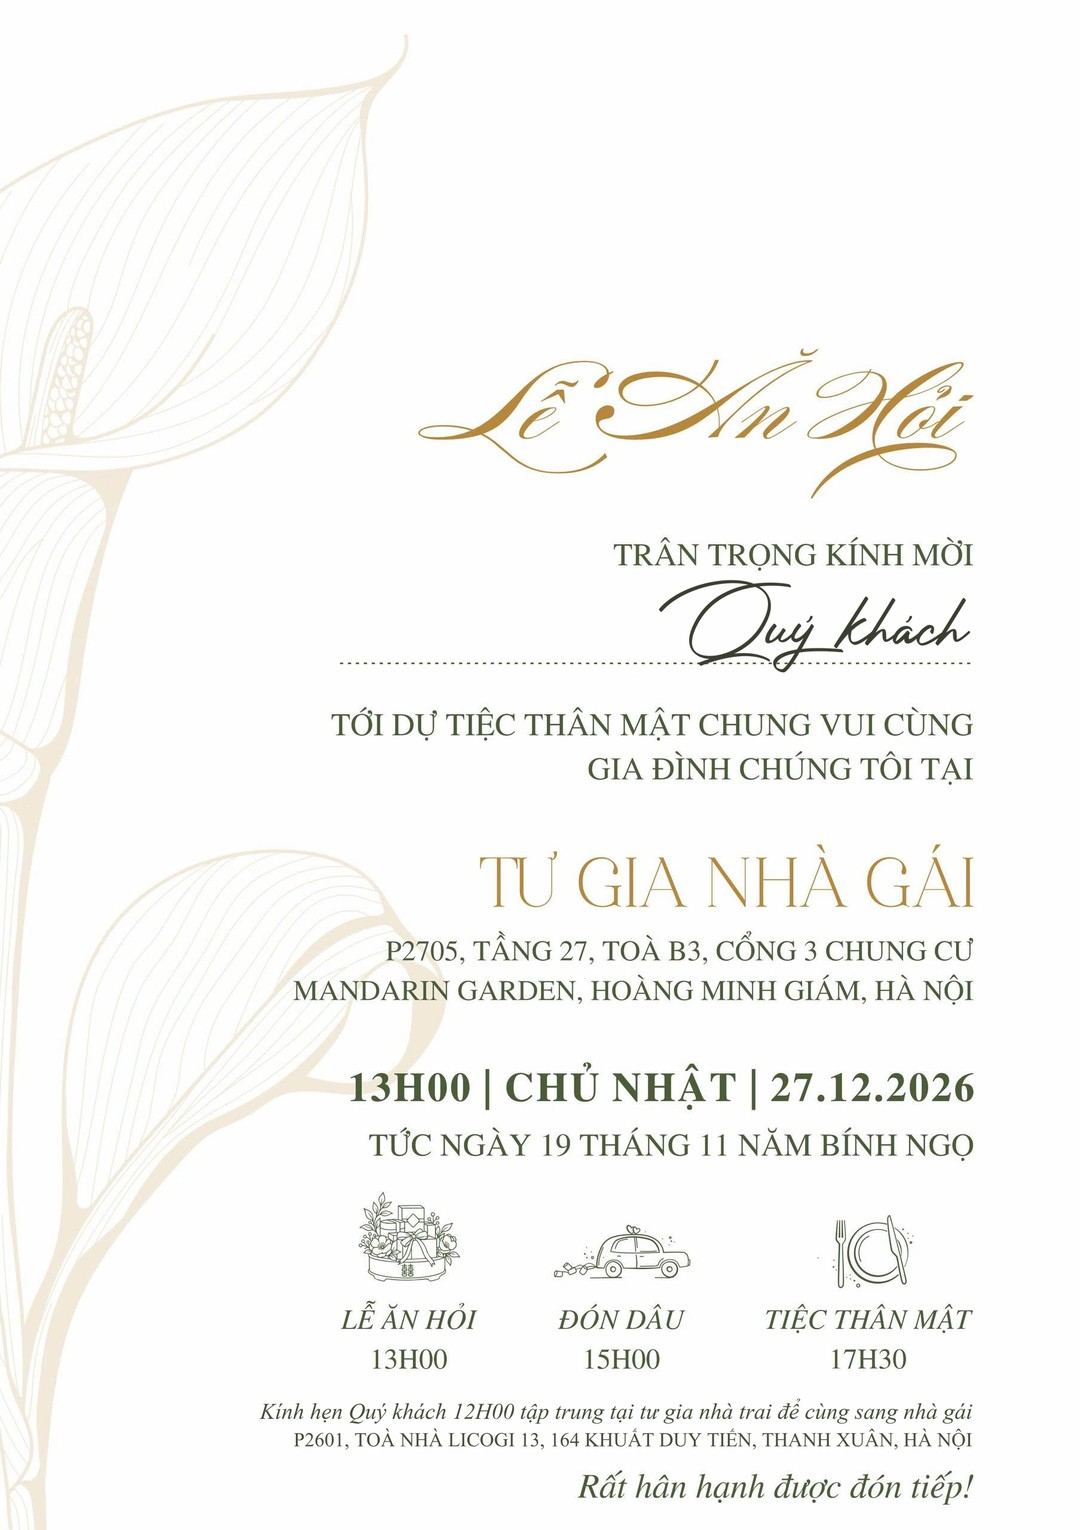
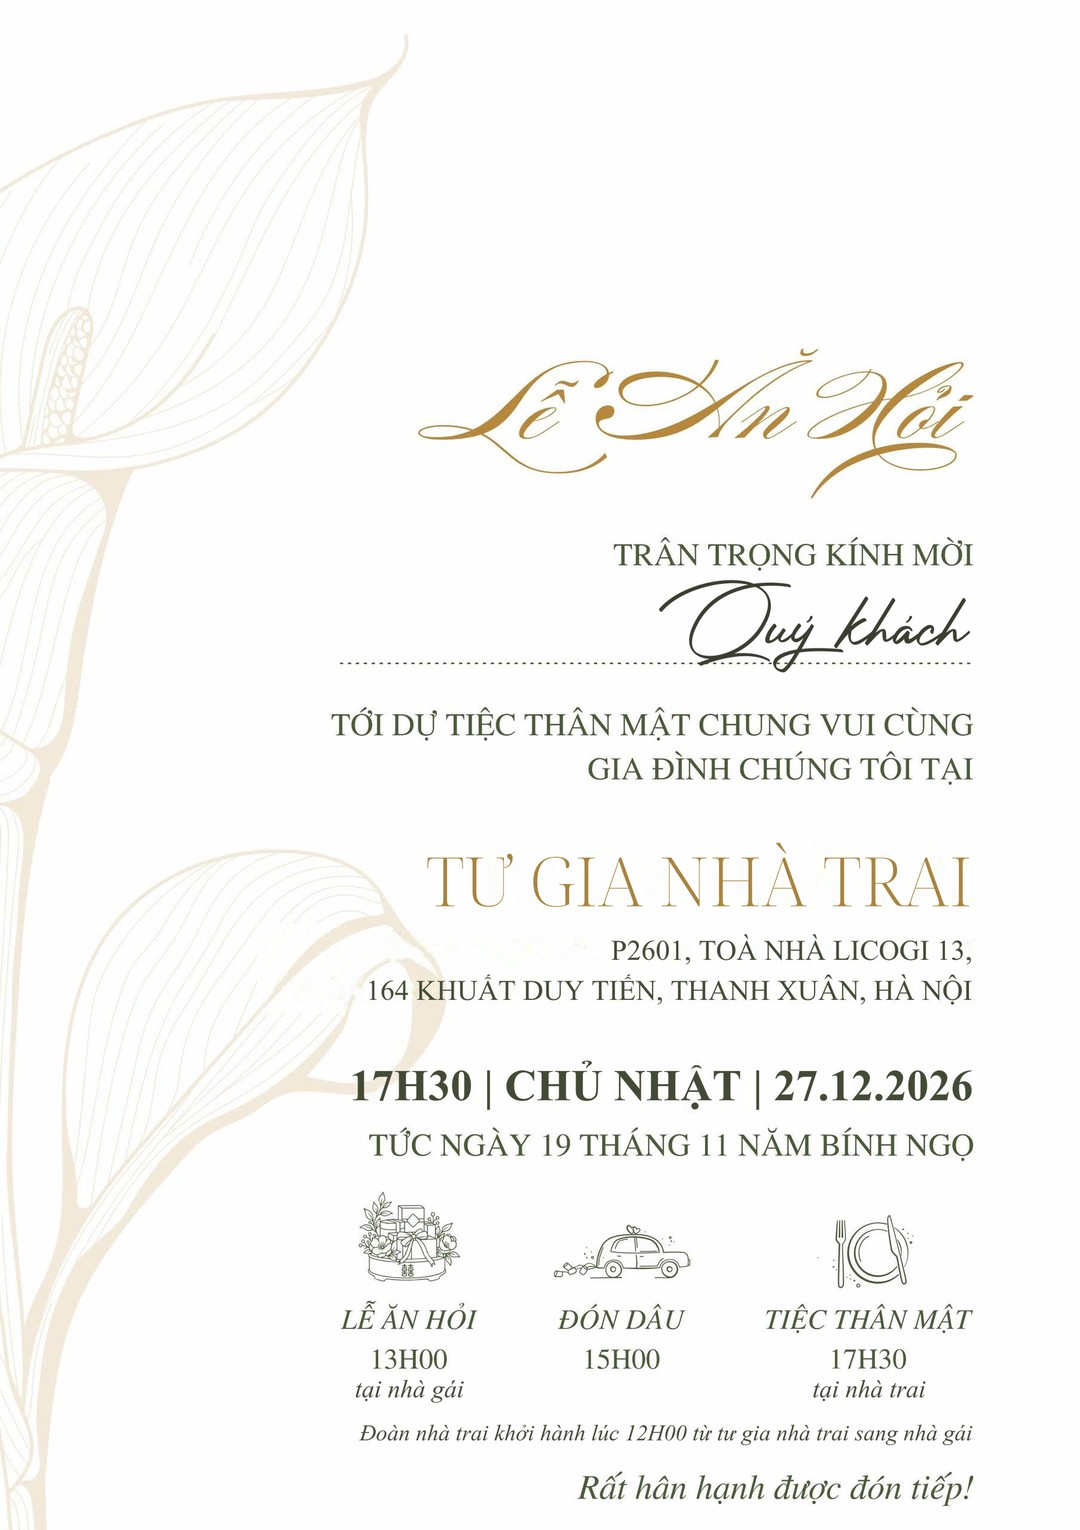
Thiệp ăn hỏi bản nhà trai: Tư gia nhà trai (Licogi 13), giờ chính 17H30, ghi tại nhà gái / tại nhà trai, đoàn khởi hành 12H00

Changed region(s): [[0.275, 0.5529, 0.9167, 0.7373], [0.2444, 0.8908, 0.9167, 0.983]]

diff --git a/cong-cu/tao_thiep_phu.py b/cong-cu/tao_thiep_phu.py
@@ -1,11 +1,13 @@
-"""Tạo ảnh các thiệp phụ (thiệp ăn hỏi, thiệp lễ vows) cho thiệp nhà trai và ghi vào images/thiep/.
+"""Tạo ảnh thiệp ăn hỏi bản nhà trai -> images/thiep/an-hoi.jpg (từ nguon/an-hoi.jpeg)
 
-- nguon/an-hoi.jpeg -> images/thiep/an-hoi.jpg: viết "Quý khách" (phông chữ ký Photograph Signature,
-  cùng kiểu với mặt lời mời 1.jpg) lên dòng chấm dưới "TRÂN TRỌNG KÍNH MỜI".
-(Các mốc lễ vows trong nguon/vows.jpeg đã gộp vào tờ chương trình: xem cong-cu/tao_chuong_trinh_doc.py)
+- viết "Quý khách" (phông chữ ký Photograph Signature, cùng kiểu mặt lời mời 1.jpg) lên dòng chấm, căn phải;
+- sửa cho khách nhà trai: TƯ GIA NHÀ TRAI + địa chỉ nhà trai, giờ chính 17H30 (tiệc thân mật ở nhà trai),
+  "tại nhà gái" / "tại nhà trai" dưới hàng biểu tượng, dòng "Đoàn nhà trai khởi hành lúc 12H00…".
+(Bản có vows: các mốc lễ vows gộp vào tờ chương trình, xem cong-cu/tao_chuong_trinh_doc.py nếu có.)
 
+Phông cần trên máy (không đưa lên GitHub): phong-chu/PhotographSignature.otf, phong-chu/noto-serif-display/;
+Times New Roman có sẵn trong Windows.
 Chạy:  python cong-cu/tao_thiep_phu.py
-Ảnh nào tạo ra thì nhớ khai báo trong mục `thiep` của config.js.
 """
 import sys
 from pathlib import Path
@@ -84,24 +86,103 @@ if DAY_LEN:
 print("Đẩy dòng TRÂN TRỌNG KÍNH MỜI lên", DAY_LEN, "điểm ảnh")
 an_hoi = Image.composite(Image.new("RGB", an_hoi.size, MAU_CHU), an_hoi, lop)
 
-# Dòng hẹn đoàn nhà trai: thiệp in sẵn ghi "Tư gia nhà gái", khách nhà trai cần tập trung ở nhà trai trước.
-# Dời dòng "Rất hân hạnh được đón tiếp!" xuống sát đáy, viết hai dòng nhỏ vào khoảng trống phía trên nó,
-# cùng phông Times New Roman, cùng màu và căn phải như chữ trên thiệp.
-HEN = ("Kính hẹn Quý khách 12H00 tập trung tại tư gia nhà trai để cùng sang nhà gái",
-       "P2601, TOÀ NHÀ LICOGI 13, 164 KHUẤT DUY TIẾN, THANH XUÂN, HÀ NỘI")
-MAU_THIEP = (66, 74, 54)                     # xanh rêu của chữ trên thiệp ăn hỏi
+# ----- Bản cho khách nhà trai -----
+# Thiệp in sẵn mời tiệc thân mật "tại TƯ GIA NHÀ GÁI". Với khách nhà trai: tập trung ở nhà trai 12H00, cùng đoàn
+# sang nhà gái làm lễ ăn hỏi 13H00, đón dâu 15H00 rồi về nhà trai dự tiệc thân mật 17H30. Nên sửa thành:
+#   TƯ GIA NHÀ TRAI + địa chỉ nhà trai, giờ chính 17H30 (giờ tiệc), thêm "tại nhà gái" / "tại nhà trai" dưới
+#   hàng biểu tượng, và một dòng nghiêng: đoàn nhà trai khởi hành 12H00 từ tư gia nhà trai sang nhà gái.
+# Chữ xanh viết lại bằng Times New Roman (đúng phông của thiệp); chữ vàng là phông thương mại không có chữ R,
+# nên viết lại cả dòng bằng Noto Serif Display (Google Fonts, OFL) trong phong-chu/noto-serif-display/.
+import cv2
+
+TIMES, TIMES_DAM, TIMES_NGHIENG = (f"C:/Windows/Fonts/{t}.ttf" for t in ("times", "timesbd", "timesi"))
+NOTO = GOC / "phong-chu" / "noto-serif-display" / "NotoSerifDisplay.ttf"
+if not NOTO.exists():
+    sys.exit(f"Thiếu phông {NOTO} (tải NotoSerifDisplay[wdth,wght].ttf từ github.com/google/fonts, ofl/notoserifdisplay).")
+MAU_XANH = (66, 74, 54)                      # xanh rêu của chữ trên thiệp ăn hỏi
+MAU_VANG = (168, 131, 62)                    # vàng của chữ "TƯ GIA NHÀ GÁI"
 LE_PHAI = 1627                               # lề phải của khối chữ
-VUNG_CAM_ON, XUONG = (900, 2385, 1660, 2475), 60   # dòng "Rất hân hạnh được đón tiếp!" và số điểm ảnh dời xuống
+
+
+def phong(duong, co, dam=None):
+    f = ImageFont.truetype(str(duong), round(co * K))
+    if dam:
+        f.set_variation_by_axes([dam, 100])
+    return f
+
+
+def xoa_chu(anh, khung, nguong, chu_xanh=False):
+    """Xoá chữ trong khung rồi vá lại từ nền xung quanh.
+    chu_xanh: chỉ lấy điểm có sắc xanh (lục >= đỏ) để không đụng vào nét hoa rum màu be (đỏ > lục) nằm dưới chữ."""
+    a = np.asarray(anh).copy()
+    x0, y0, x1, y1 = khung
+    vung = np.ascontiguousarray(a[y0:y1, x0:x1, ::-1]).astype(np.uint8)
+    v = vung.astype(int)
+    sang = v.mean(axis=2)
+    if chu_xanh:
+        mat_na = (sang < 150) | ((v[:, :, 1] >= v[:, :, 2]) & (sang < 246))
+        mat_na = cv2.dilate(mat_na.astype(np.uint8) * 255, np.ones((3, 3), np.uint8))
+        a[y0:y1, x0:x1] = cv2.inpaint(vung, mat_na, 3, cv2.INPAINT_TELEA)[:, :, ::-1]
+    else:
+        mat_na = cv2.dilate((sang < nguong).astype(np.uint8) * 255, np.ones((7, 7), np.uint8))
+        a[y0:y1, x0:x1] = cv2.inpaint(vung, mat_na, 6, cv2.INPAINT_TELEA)[:, :, ::-1]
+    return Image.fromarray(a)
+
+
+def khop(chu, duong, khung):
+    """Cỡ chữ và hàng chân chữ để dòng chữ gốc viết lại bằng phông này trùng đúng khối chữ trên ảnh (khung = mép nét)."""
+    x0, y0, x1, y1 = khung
+    l, t, r, b = ImageFont.truetype(str(duong), 200).getbbox(chu, anchor="ls")
+    co = 200 * (x1 - x0 + 1) / (r - l)
+    l, t, r, b = ImageFont.truetype(str(duong), round(co * K)).getbbox(chu, anchor="ls")
+    return co, y1 + 1 - b / K
+
+
+lop_moi = {MAU_XANH: Image.new("L", (an_hoi.width * K, an_hoi.height * K), 0),
+           MAU_VANG: Image.new("L", (an_hoi.width * K, an_hoi.height * K), 0)}
+
+
+def viet(chu, f, x, day, mau=MAU_XANH, neo="rs"):
+    ImageDraw.Draw(lop_moi[mau]).text((x * K, day * K), chu, font=f, fill=255, anchor=neo)
+
+
+# a) dòng vàng: TƯ GIA NHÀ GÁI -> TƯ GIA NHÀ TRAI (chữ I cao 81 điểm ảnh, chân chữ ở hàng 1516)
+an_hoi = xoa_chu(an_hoi, (790, 1400, 1645, 1530), 235)
+f_vang = phong(NOTO, 100, dam=250)
+cao_I = -f_vang.getbbox("I", anchor="ls")[1] / K
+f_vang = phong(NOTO, 100 * 81 / cao_I, dam=250)
+viet("TƯ GIA NHÀ TRAI", f_vang, LE_PHAI, 1516.5, MAU_VANG)
+
+# b) địa chỉ: hai dòng, cùng cỡ và cùng hàng chân chữ với địa chỉ nhà gái
+co_dc, day_2 = khop("MANDARIN GARDEN, HOÀNG MINH GIÁM, HÀ NỘI", TIMES, (491, 1631, 1627, 1680))
+_, day_1 = khop("P2705, TẦNG 27, TOÀ B3, CỔNG 3 CHUNG CƯ", TIMES, (646, 1558, 1627, 1613))
+an_hoi = xoa_chu(an_hoi, (430, 1545, 1645, 1695), 205, chu_xanh=True)
+viet("P2601, TOÀ NHÀ LICOGI 13,", phong(TIMES, co_dc), LE_PHAI, day_1)
+viet("164 KHUẤT DUY TIẾN, THANH XUÂN, HÀ NỘI", phong(TIMES, co_dc), LE_PHAI, day_2)
+
+# c) giờ chính: 13H00 -> 17H30 (giờ tiệc thân mật ở nhà trai)
+co_ngay, day_ngay = khop("13H00 | CHỦ NHẬT | 27.12.2026", TIMES_DAM, (587, 1777, 1628, 1856))
+an_hoi = xoa_chu(an_hoi, (560, 1765, 1645, 1868), 205)
+viet("17H30 | CHỦ NHẬT | 27.12.2026", phong(TIMES_DAM, co_ngay), LE_PHAI + 1, day_ngay)
+
+# d) dời "Rất hân hạnh được đón tiếp!" xuống sát đáy để có chỗ cho hai dòng mới
+VUNG_CAM_ON, XUONG = (900, 2385, 1660, 2475), 62
 dong = an_hoi.crop(VUNG_CAM_ON)
 nen = tuple(int(v) for v in np.median(np.asarray(dong).reshape(-1, 3), axis=0))
 an_hoi.paste(Image.new("RGB", dong.size, nen), VUNG_CAM_ON[:2])
 an_hoi.paste(dong, (VUNG_CAM_ON[0], VUNG_CAM_ON[1] + XUONG))
-lop_hen = Image.new("L", (an_hoi.width * K, an_hoi.height * K), 0)
-ve = ImageDraw.Draw(lop_hen)
-ve.text((LE_PHAI * K, 2374 * K), HEN[0], font=ImageFont.truetype("C:/Windows/Fonts/timesi.ttf", 38 * K), fill=255, anchor="rs")
-ve.text((LE_PHAI * K, 2420 * K), HEN[1], font=ImageFont.truetype("C:/Windows/Fonts/times.ttf", 33 * K), fill=255, anchor="rs")
-lop_hen = lop_hen.resize(an_hoi.size, Image.LANCZOS)
-an_hoi = Image.composite(Image.new("RGB", an_hoi.size, MAU_THIEP), an_hoi, lop_hen)
+
+# e) "tại nhà gái" dưới LỄ ĂN HỎI 13H00, "tại nhà trai" dưới TIỆC THÂN MẬT 17H30 (tâm cột đo trên ảnh)
+co_gio, _ = khop("13H00", TIMES, (624, 2257, 747, 2290))
+f_noi = phong(TIMES_NGHIENG, co_gio * .92)
+viet("tại nhà gái", f_noi, 685, 2338, neo="ms")
+viet("tại nhà trai", f_noi, 1454, 2338, neo="ms")
+
+# f) dòng nghiêng: đoàn nhà trai khởi hành 12H00
+viet("Đoàn nhà trai khởi hành lúc 12H00 từ tư gia nhà trai sang nhà gái", phong(TIMES_NGHIENG, 38), LE_PHAI, 2410)
+
+for mau, lop_m in lop_moi.items():
+    an_hoi = Image.composite(Image.new("RGB", an_hoi.size, mau), an_hoi, lop_m.resize(an_hoi.size, Image.LANCZOS))
 
 thu_nho(an_hoi).save(ra / "an-hoi.jpg", quality=90, optimize=True)
 print("Đã ghi images/thiep/an-hoi.jpg")
